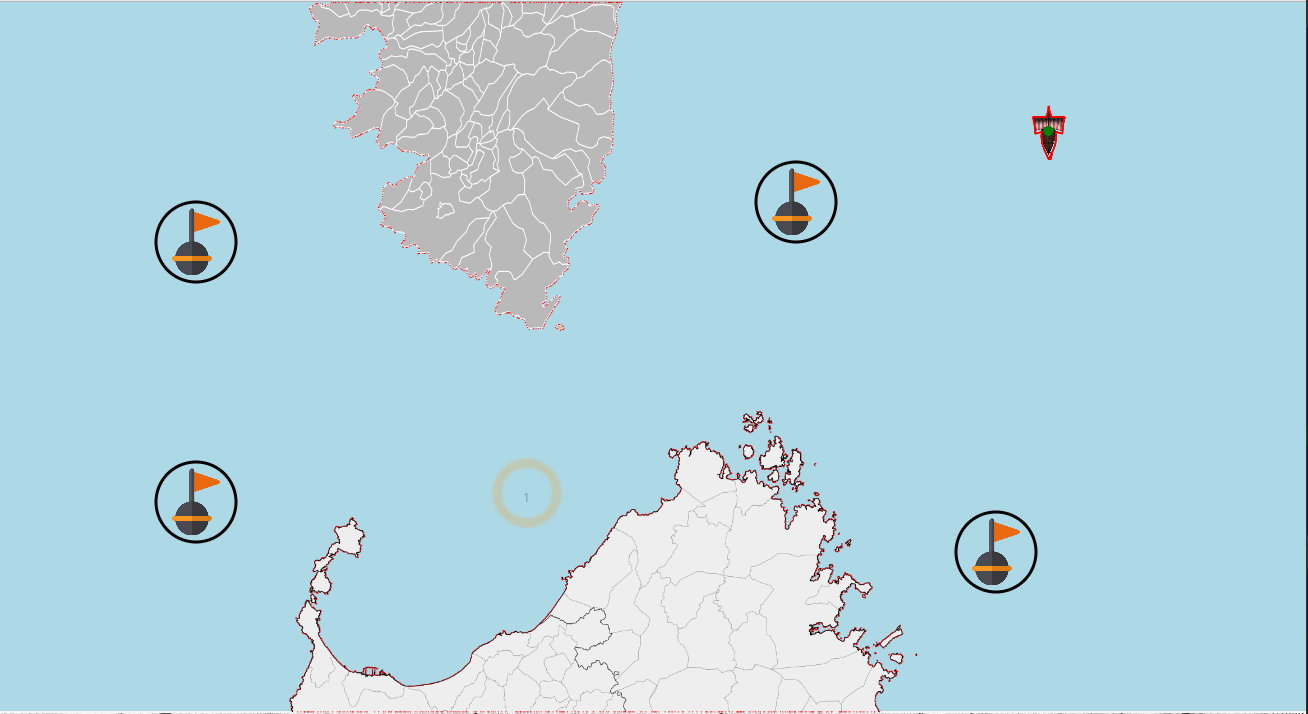
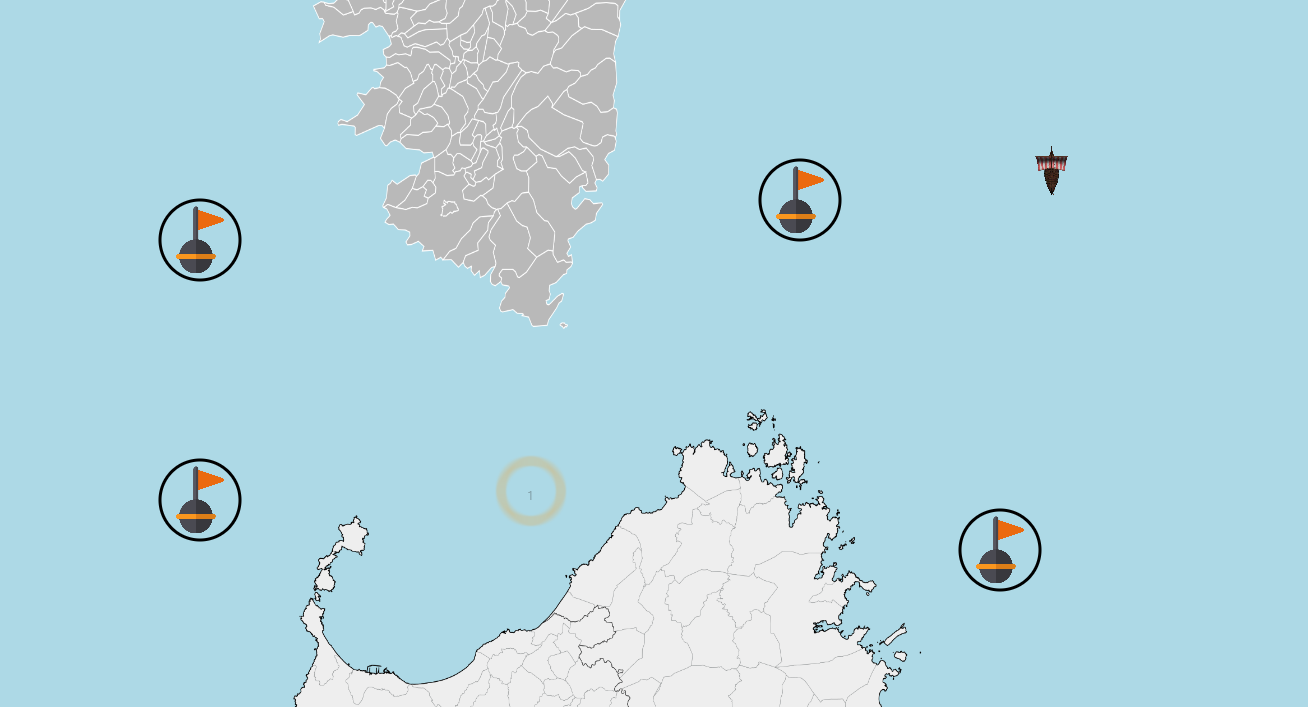
URGENCY FIX

diff --git a/src/main/java/regates/mvp/presenter/BoardController.java b/src/main/java/regates/mvp/presenter/BoardController.java
@@ -79,10 +79,10 @@ public class BoardController implements BoatObserver, GameObserver {
 
             // Display the checkpoint
             Checkpoint next = Board.getInstance().getCheckpoint(this.game.getOrder());
-            AnchorPane.setLeftAnchor(labelCheckpoint, next.getPosition().getX() + nextCheckpoint.getRadius() * 0.9);
-            AnchorPane.setTopAnchor(labelCheckpoint, next.getPosition().getY() + nextCheckpoint.getRadius() * 0.9);
-            AnchorPane.setLeftAnchor(nextCheckpoint, next.getPosition().getX());
-            AnchorPane.setTopAnchor(nextCheckpoint, next.getPosition().getY());
+            AnchorPane.setLeftAnchor(labelCheckpoint, next.getPosition().getX());
+            AnchorPane.setTopAnchor(labelCheckpoint, next.getPosition().getY());
+            AnchorPane.setLeftAnchor(nextCheckpoint, next.getPosition().getX() - next.getRadius());
+            AnchorPane.setTopAnchor(nextCheckpoint, next.getPosition().getY() - next.getRadius());
             labelCheckpoint.setText(String.valueOf(next.getOrder()));
             nextCheckpoint.setRadius(next.getRadius());
             txtSpeed.setText((Math.round(boat.getSpeed() * 10) / 10.0) + " nd");

diff --git a/src/main/java/regates/mvp/model/boat/Boat.java b/src/main/java/regates/mvp/model/boat/Boat.java
@@ -64,7 +64,6 @@ public class Boat implements BoatObservable {
             double opp = speed * Math.sin(Math.toRadians(a));
             this.borders.setBarycentre(new Coordinate(this.borders.getBarycentre().getX() + adj, this.borders.getBarycentre().getY() + opp));
             this.borders.translateBorders();
-            System.out.println(this.getPosition());
             notifyObservers();
         } catch (Exception e) {
             e.printStackTrace();

diff --git a/src/main/java/regates/mvp/model/Game.java b/src/main/java/regates/mvp/model/Game.java
@@ -116,7 +116,7 @@ public class Game implements GameObservable {
         }
 
         for (Coordinate c : boat.getBorders().getPoints()) {
-            if (c.getX() < 0 || c.getX() > 1310 || c.getY() < 0 || c.getY() > 983) {
+            if (c.getX() < 0 || c.getX() > 1310 || c.getY() < 0 || c.getY() > 709) {
                 return true;
             }
         }
